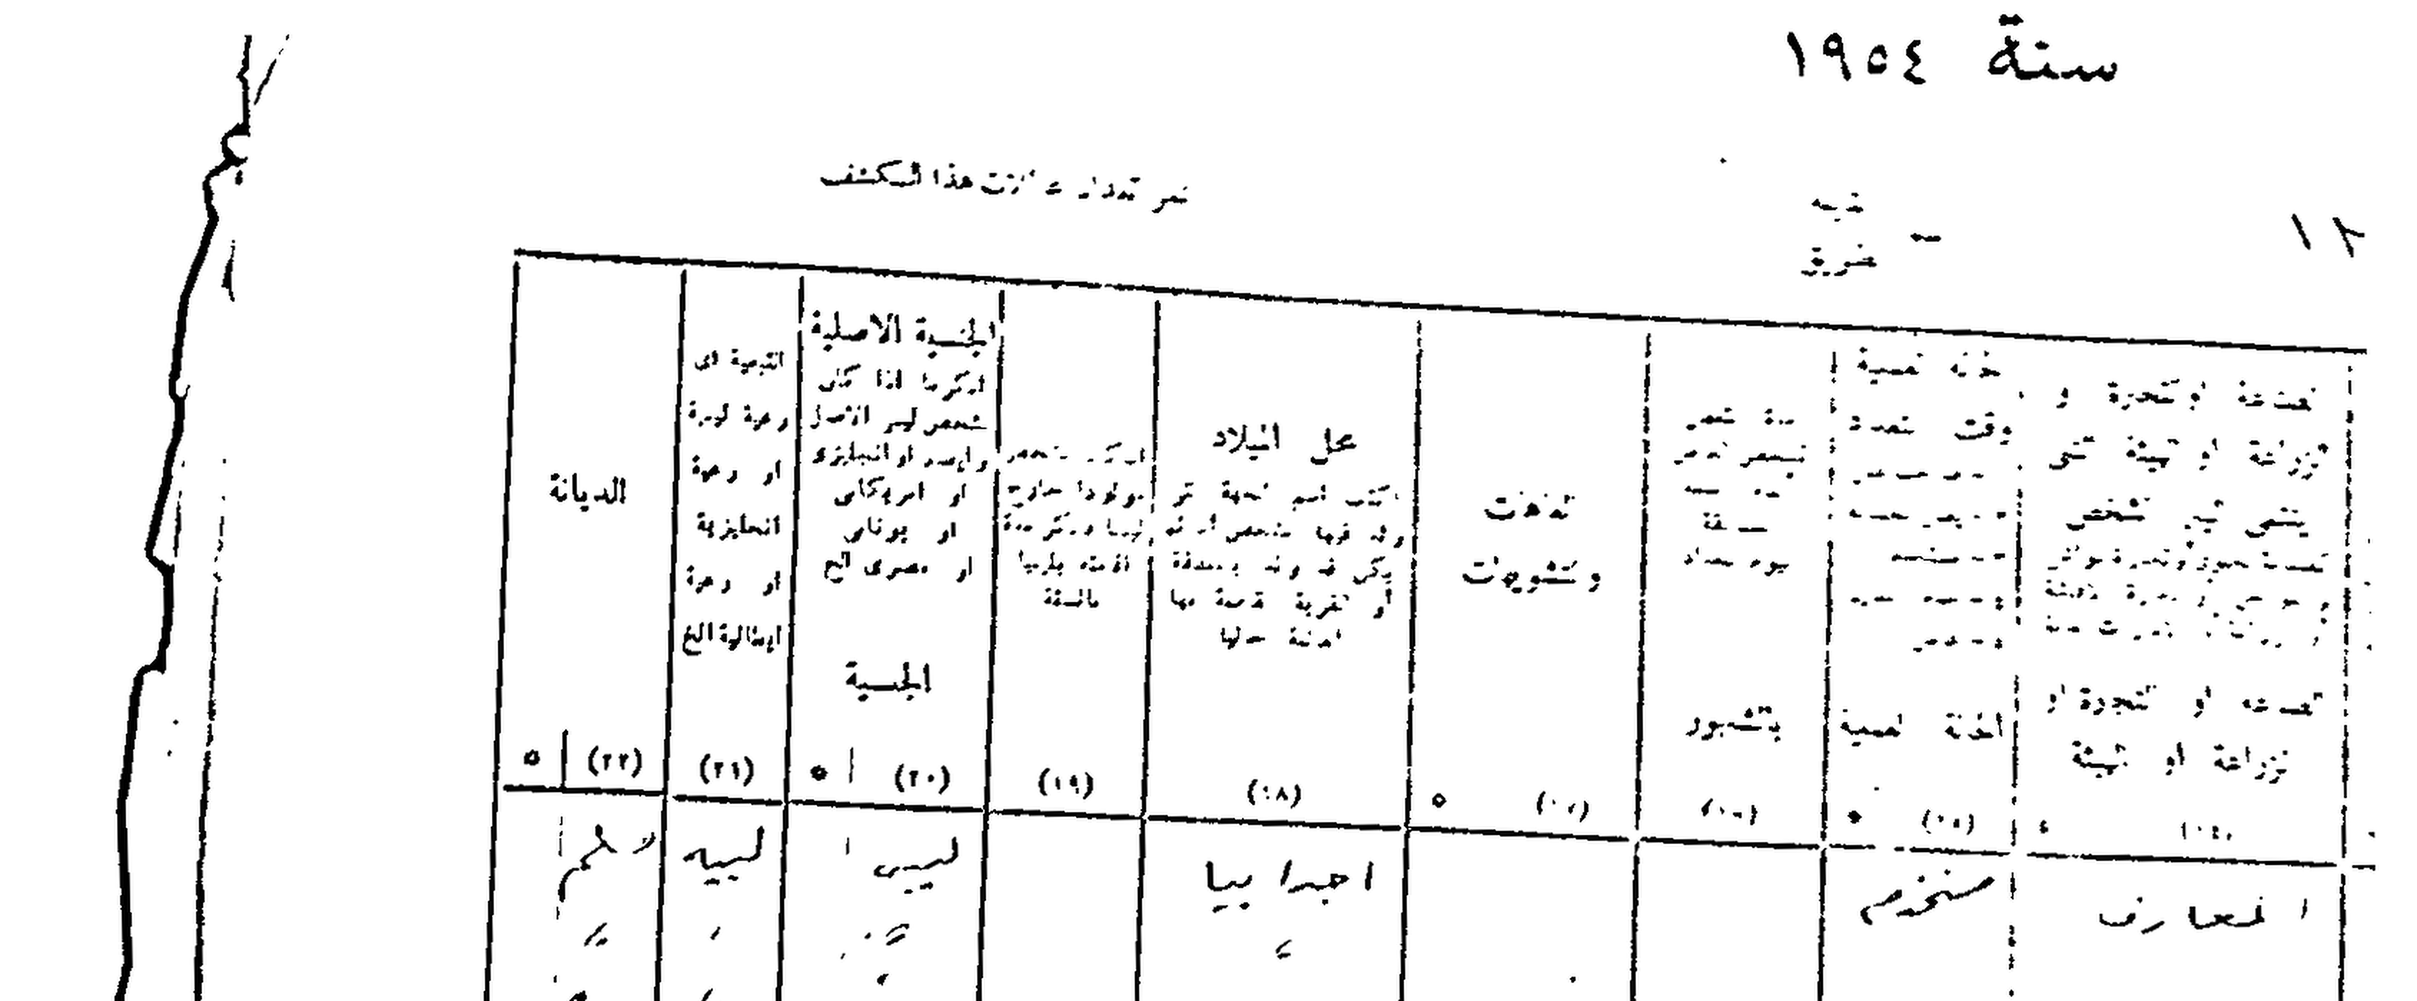
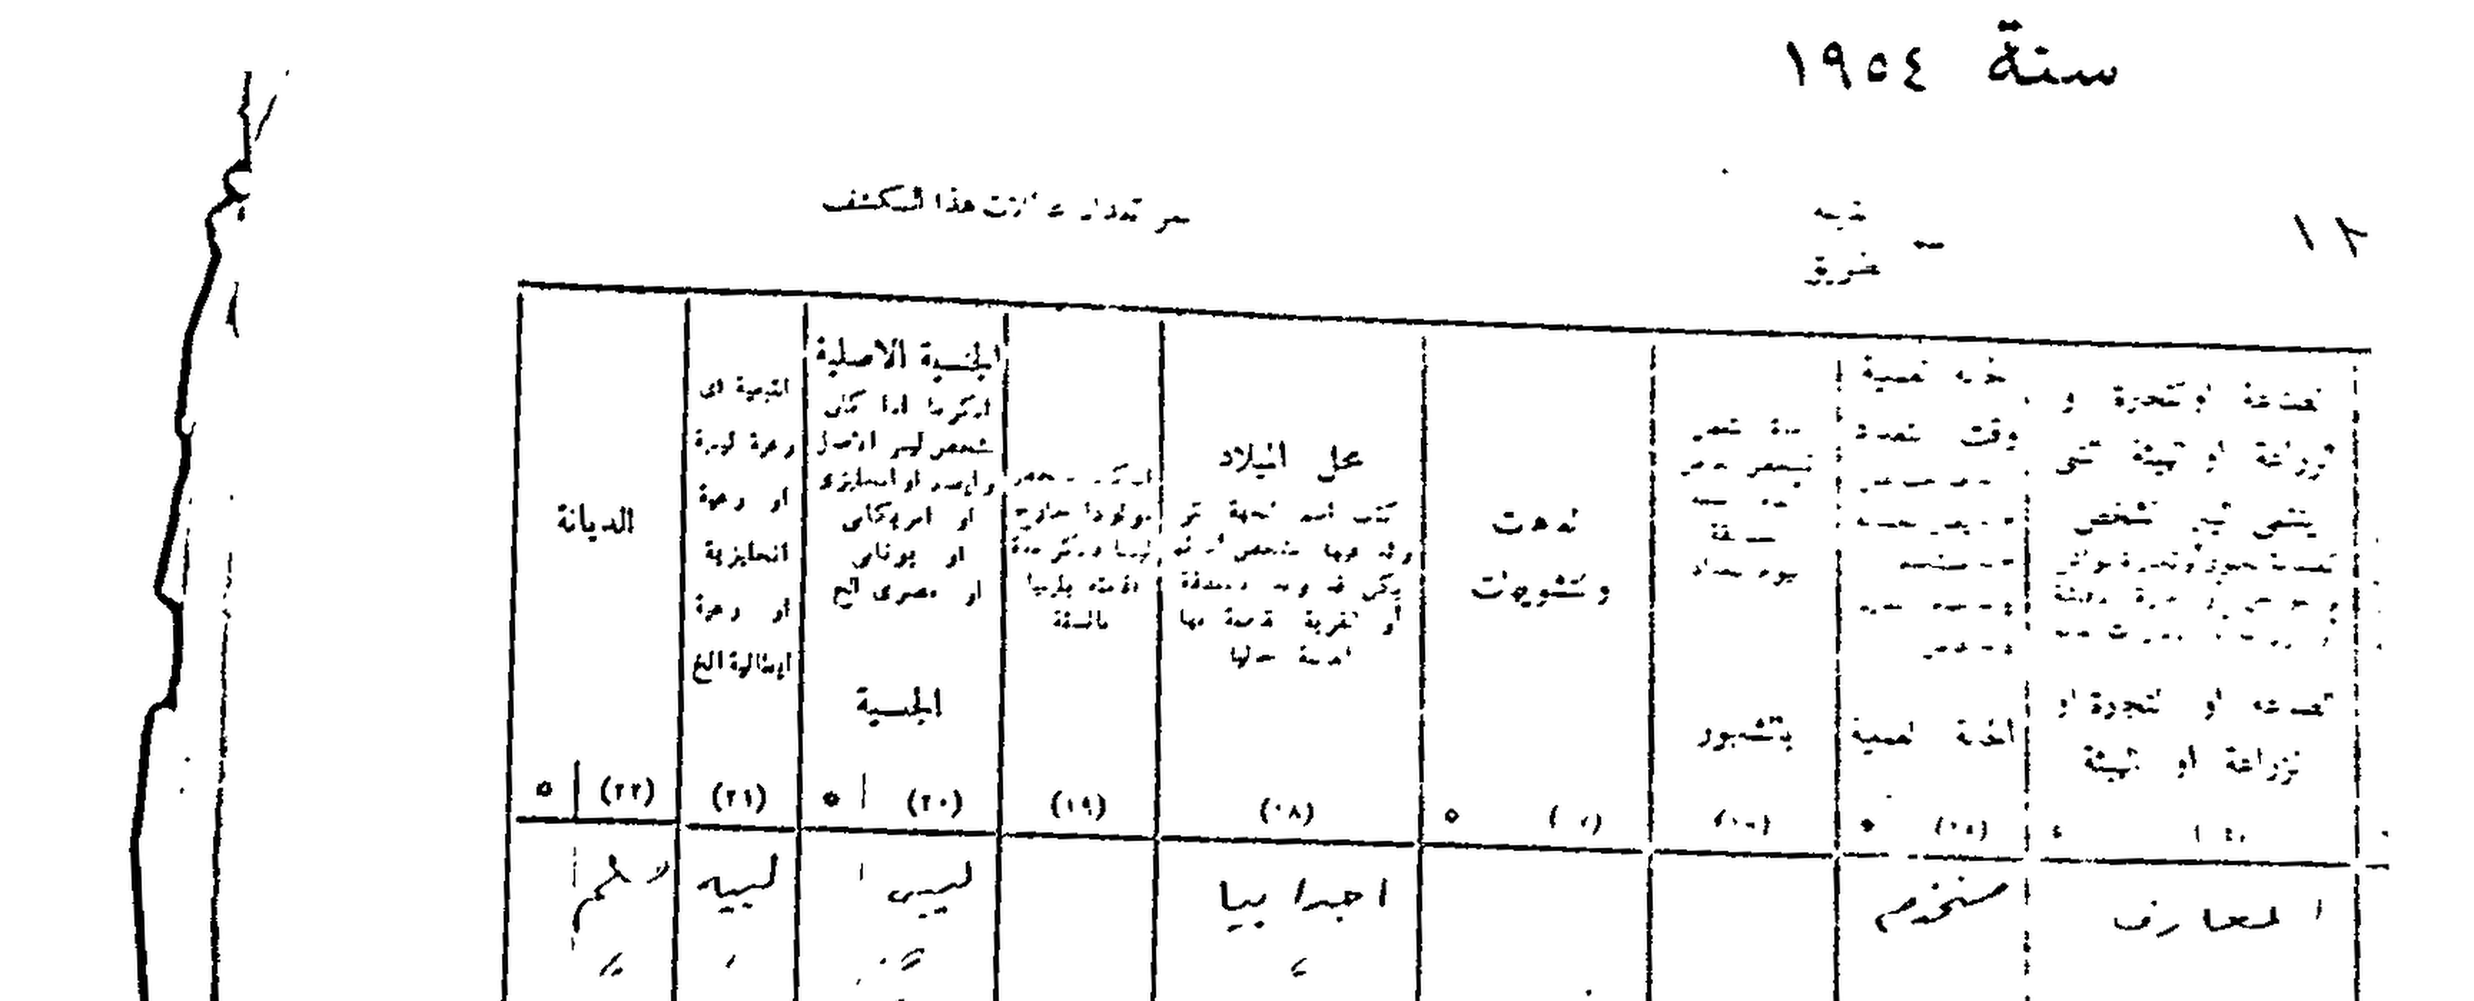
minimize skew

diff --git a/scripts/preprocessing.py b/scripts/preprocessing.py
@@ -29,7 +29,7 @@ def process_image(
     output_dir="data/processed",
     block_size=31,
     c_value=15,
-    min_speckle_size=4,
+    min_speckle_size=6,          # <-- كان 4، زودناها عشان تشيل بقايا تشويش اكتر
     show_steps=False,
 ):
     """
@@ -39,6 +39,12 @@ def process_image(
     3) Remove noise (small scattered dots/speckles) via Connected Components
 
     Returns: path to the final cleaned image (denoised.png)
+
+    ملاحظة (v2): min_speckle_size اتزودت من 4 لـ 6 كافتراضي، لأن الملاحظة
+    العملية على الصور دي إن فيه بقايا نقط تشويش صغيرة بعد denoise بالقيمة
+    القديمة. لو لسه فيه تشويش زيادة عندك، جرب تزودها لـ 8-10، ولو لاحظت
+    إن حروف صغيرة أو نقط فوق الحروف (زي التنقيط العربي) بتتشال بالغلط،
+    رجعها لـ 4-5.
     """
     os.makedirs(output_dir, exist_ok=True)
     base_name = os.path.splitext(os.path.basename(image_path))[0]
@@ -198,6 +204,11 @@ def enhance_clarity(img_array, scale=4.0, sharpen_amount=1.5, blur_sigma=1.3):
     - blur_sigma: درجة التمويه المستخدمة كأساس لعملية unsharp masking
 
     Returns: الصورة بعد التكبير والشحذ (بنفس عدد القنوات - grayscale او ملونة)
+
+    مهم (v2): الدالة دي لازم تفضل آخر خطوة في الـ pipeline (بعد deskew وبعد
+    القص النهائي)، لأن تشغيل deskew على صورة مكبّرة 4x بيبوّظ اداء
+    HoughLinesP (الخطوط بتبقى ضخمة وبعيدة عن قيم الباراميترات المعتادة).
+    الترتيب في crop_folder تحته بيضمن كده تلقائيًا.
     """
     h, w = img_array.shape[:2]
     new_size = (int(w * scale), int(h * scale))
@@ -214,8 +225,18 @@ def enhance_clarity(img_array, scale=4.0, sharpen_amount=1.5, blur_sigma=1.3):
 # ===============  دوال تصحيح الميلان (Deskew)  ===============
 # ============================================================
 
-def detect_skew_angle(img_array, angle_limit=15, canny_low=50, canny_high=150,
-                       hough_threshold=200, min_line_length_ratio=0.25):
+def detect_skew_angle(
+    img_array,
+    angle_limit=15,
+    canny_low=50,
+    canny_high=150,
+    hough_threshold=70,            # <-- كان 200، قللناها عشان يكتشف خطوط جدول متقطعة/اقل كثافة
+    min_line_length_ratio=0.10,    # <-- كان 0.25، قللناها لان النصف بعد split بيبقى اضيق
+    max_line_gap=50,               # <-- كان تابت جوه الكود بقيمة 20، بقى بارامتر قابل للتعديل
+    min_lines_required=5,          # جديد: حد ادنى لعدد الخطوط عشان نثق في النتيجة
+    label="",
+    verbose=True,
+):
     """
     يكتشف زاوية ميلان الصورة اعتماداً على خطوط الجدول (وليس النص).
 
@@ -228,12 +249,27 @@ def detect_skew_angle(img_array, angle_limit=15, canny_low=50, canny_high=150,
 
     Parameters:
     - angle_limit: اقصى زاوية ميلان متوقعة (بالدرجات) - أي خط زاويته اكبر من كده يتجاهل
+    - hough_threshold: عدد الاصوات (votes) المطلوب في Hough space عشان يتحسب الخط
+                       موجود. (v2) اتقللت من 200 لـ 70 لان القيمة القديمة كانت
+                       بترفض كل الخطوط تقريبا في صور فيها تشويش/انقطاعات كتير.
     - min_line_length_ratio: اقل طول للخط (نسبة من عرض الصورة) عشان يتحسب
-                             (خطوط الجدول الافقية عادة طويلة)
+                             (خطوط الجدول الافقية عادة طويلة). (v2) اتقللت من
+                             0.25 لـ 0.10 عشان تناسب الانصاف الاضيق بعد split.
+    - max_line_gap: اقصى فجوة (بالبكسل) بين نقطتين عشان لسه يتحسبوا خط واحد
+                    متصل. (v2) بقت بارامتر بدل ما كانت قيمة تابتة جوه الكود.
+    - min_lines_required: (جديد) لو عدد الخطوط المقبولة اقل من الرقم ده،
+                          الدالة بترفض تاخد قرار وترجع 0.0 مع تحذير، بدل ما
+                          تاخد قرار غير موثوق بناء على خط او اتنين بس.
+    - label: (جديد) اسم اختياري يتطبع في رسائل الـ verbose، مفيد لما تشغل
+             الدالة دي على كذا صورة وعايز تعرف كل نتيجة تخص مين.
+    - verbose: (جديد) لو True، بيطبع تفاصيل تشخيصية (عدد الخطوط, مدى الزوايا..)
+              مفيد جدا للتأكد ان القرار المتخذ موثوق قبل ما تتطبق على الصورة.
 
     Returns: angle (float) بالدرجات. موجب = ميل عكس عقارب الساعة, سالب = مع عقارب الساعة
-             لو مفيش خطوط كافية اتلاقت, بيرجع 0.0
+             لو مفيش خطوط كافية اتلاقت (اقل من min_lines_required), بيرجع 0.0
     """
+    prefix = f"[{label}] " if label else ""
+
     if len(img_array.shape) == 3:
         gray = cv2.cvtColor(img_array, cv2.COLOR_BGR2GRAY)
     else:
@@ -250,11 +286,12 @@ def detect_skew_angle(img_array, angle_limit=15, canny_low=50, canny_high=150,
         theta=np.pi / 180,
         threshold=hough_threshold,
         minLineLength=min_line_length,
-        maxLineGap=20,
+        maxLineGap=max_line_gap,
     )
 
     if lines is None or len(lines) == 0:
-        print("  !! لم يتم العثور على خطوط كافية لتحديد الميلان - سيتم تجاهل التصحيح")
+        if verbose:
+            print(f"  {prefix}!! لم يتم العثور على خطوط كافية لتحديد الميلان - سيتم تجاهل التصحيح")
         return 0.0
 
     angles = []
@@ -276,25 +313,43 @@ def detect_skew_angle(img_array, angle_limit=15, canny_low=50, canny_high=150,
             weights.append(length)
 
     if not angles:
-        print("  !! لم يتم العثور على خطوط افقية واضحة - سيتم تجاهل التصحيح")
+        if verbose:
+            print(f"  {prefix}!! لم يتم العثور على خطوط افقية واضحة - سيتم تجاهل التصحيح")
+        return 0.0
+
+    # (v2) لو عدد الخطوط المقبولة اقل من الحد الادنى، منثقش في القرار
+    if len(angles) < min_lines_required:
+        if verbose:
+            print(
+                f"  {prefix}!! عدد الخطوط الموثوقة ({len(angles)}) اقل من الحد الادنى "
+                f"({min_lines_required}) - سيتم تجاهل التصحيح لتفادي قرار غير دقيق"
+            )
         return 0.0
 
     # نستخدم "weighted median" بدل median العادي:
     # الخطوط الطويلة (زي حدود الجدول الحقيقية) توزنها اكبر من الخطوط القصيرة
     # (زي خطوط طيات/تمزقات حواف الورقة اللي ممكن تكون بزاوية مختلفة تماما
     # وتخدع median العادي رغم انها قصيرة وغير موثوقة)
-    angles = np.array(angles)
-    weights = np.array(weights)
+    angles_arr = np.array(angles)
+    weights_arr = np.array(weights)
 
-    order = np.argsort(angles)
-    angles_sorted = angles[order]
-    weights_sorted = weights[order]
+    order = np.argsort(angles_arr)
+    angles_sorted = angles_arr[order]
+    weights_sorted = weights_arr[order]
     cum_weights = np.cumsum(weights_sorted)
     cutoff = weights_sorted.sum() / 2.0
     idx = np.searchsorted(cum_weights, cutoff)
     idx = min(idx, len(angles_sorted) - 1)
 
     weighted_median_angle = float(angles_sorted[idx])
+
+    if verbose:
+        print(
+            f"  {prefix}عدد الخطوط الموثوقة: {len(angles)} | "
+            f"مدى الزوايا: [{angles_arr.min():.2f}, {angles_arr.max():.2f}] | "
+            f"الزاوية المختارة (weighted median): {weighted_median_angle:.3f}°"
+        )
+
     return weighted_median_angle
 
 
@@ -332,19 +387,38 @@ def rotate_image(img_array, angle, border_value=255):
     return rotated
 
 
-def deskew_image(img_array, angle_limit=15, min_angle_to_apply=0.1, show_angle=True):
+def deskew_image(
+    img_array,
+    angle_limit=15,
+    min_angle_to_apply=0.1,
+    hough_threshold=70,
+    min_line_length_ratio=0.10,
+    max_line_gap=50,
+    min_lines_required=5,
+    label="",
+    show_angle=True,
+):
     """
     الدالة الرئيسية للتصحيح: تكتشف زاوية الميلان وتصححها.
 
     - min_angle_to_apply: لو الزاوية المكتشفة اصغر من كده، متعملش دوران خالص
                           (عشان منضيعش جودة الصورة بدوران غير ضروري لزاوية شبه معدومة)
+    - باقي الباراميترات (hough_threshold, min_line_length_ratio, max_line_gap,
+      min_lines_required, label) بتتمرر مباشرة لـ detect_skew_angle، شوف
+      توثيقها هناك.
 
     Returns: img_array بعد التصحيح (او نفس الصورة لو الزاوية صغيرة جدا او متلاقتش)
     """
-    angle = detect_skew_angle(img_array, angle_limit=angle_limit)
-
-    if show_angle:
-        print(f"  زاوية الميلان المكتشفة: {angle:.2f} درجة")
+    angle = detect_skew_angle(
+        img_array,
+        angle_limit=angle_limit,
+        hough_threshold=hough_threshold,
+        min_line_length_ratio=min_line_length_ratio,
+        max_line_gap=max_line_gap,
+        min_lines_required=min_lines_required,
+        label=label,
+        verbose=show_angle,
+    )
 
     if abs(angle) < min_angle_to_apply:
         return img_array
@@ -393,6 +467,7 @@ def crop_folder(
     custom_crops=None,
     default_crops=None,
     apply_deskew=True,
+    deskew_params=None,
     top_margin_crops=None,
     apply_enhance=False,
     enhance_scale=2.0,
@@ -411,6 +486,10 @@ def crop_folder(
        - يصحح ميلان الصورة كاملة [لو apply_deskew=True]
        - يقص الصورة الكاملة مباشرة لـ header_part / table_part
 
+    الترتيب مهم وبيفضل زي ما هو (v2): split -> crop_top_margin -> deskew ->
+    crop_header_table -> enhance (اخر حاجة). تشغيل enhance قبل deskew كان
+    بيبوظ اداء اكتشاف الميلان (Hough) لان الصورة بتبقى مكبرة اربع اضعاف.
+
     Parameters:
     - needs_split: dict {اسم_الصورة_بدون_الامتداد: True/False}
                     يحدد هل الصورة محتاجة قص يمين/يسار قبل قص header/table
@@ -420,6 +499,12 @@ def crop_folder(
                      احداثيات مخصصة لقص header/table لصورة (او نصف صورة) معينة
     - default_crops: crops_template افتراضي لأي صورة/نصف مش موجود في custom_crops
     - apply_deskew: لو True، يصحح ميلان كل جزء (بعد split, قبل crop_header_table)
+    - deskew_params: (جديد) dict بباراميترات deskew_image الافتراضية لكل
+                      الصور، مثال:
+                      {"hough_threshold": 70, "min_line_length_ratio": 0.10,
+                       "max_line_gap": 50, "min_lines_required": 5}
+                      لو عايز قيم مختلفة لصورة معينة، استخدم
+                      per_image_deskew_params بدلها.
     - top_margin_crops: dict {اسم_الجزء: cutoff_y}
                         بيشيل شريط من اعلى الجزء المحدد (بعد split, قبل deskew)
                         لازالة اثر طيات/تمزقات حواف الورقة الظاهرة فوق الجدول.
@@ -442,6 +527,13 @@ def crop_folder(
         custom_crops = {}
     if top_margin_crops is None:
         top_margin_crops = {}
+    if deskew_params is None:
+        deskew_params = {
+            "hough_threshold": 70,
+            "min_line_length_ratio": 0.10,
+            "max_line_gap": 50,
+            "min_lines_required": 5,
+        }
     if default_crops is None:
         default_crops = {
             "header_part": (0, 750, 0, None),
@@ -483,9 +575,9 @@ def crop_folder(
 
             if apply_deskew:
                 print("  -> تصحيح ميلان النصف الايسر:")
-                left_half = deskew_image(left_half)
+                left_half = deskew_image(left_half, label=left_name, **deskew_params)
                 print("  -> تصحيح ميلان النصف الايمن:")
-                right_half = deskew_image(right_half)
+                right_half = deskew_image(right_half, label=right_name, **deskew_params)
 
             parts_to_process = {
                 left_name: left_half,
@@ -500,7 +592,7 @@ def crop_folder(
 
             if apply_deskew:
                 print("  -> تصحيح ميلان الصورة:")
-                img_array = deskew_image(img_array)
+                img_array = deskew_image(img_array, label=base_name, **deskew_params)
 
             parts_to_process = {
                 base_name: img_array,
@@ -526,7 +618,11 @@ if __name__ == "__main__":
     # ============================================
     # 1. تنظيف الصور (denoising) لكل الصور في data/raw
     # ============================================
-    results = process_folder("data/raw", pattern="*.jpg")
+    results = process_folder(
+        "data/raw",
+        pattern="*.jpg",
+        min_speckle_size=6,   # (v2) كانت 4 - جرب 8-10 لو لسه فيه تشويش
+    )
     print("Final images:", results)
 
     # ============================================
@@ -579,6 +675,17 @@ if __name__ == "__main__":
         # "1954-P000001_page-0001_denoised_right": 0,  # مثال: لو مفيش طية في اليمين
     }
 
+    # (v2 - جديد) باراميترات اكتشاف الميلان. القيم دي اتظبطت بناء على تشخيص
+    # فعلي اظهر ان القيم القديمة (threshold=200, ratio=0.25) كانت بترفض
+    # كل الخطوط تقريبا. لو لسه الميلان مش بيتصحح صح، قلل hough_threshold
+    # اكتر (مثلا 40-50) او زود max_line_gap.
+    deskew_params = {
+        "hough_threshold": 70,
+        "min_line_length_ratio": 0.10,
+        "max_line_gap": 50,
+        "min_lines_required": 5,
+    }
+
     crop_folder(
         input_dir="data/processed",
         output_dir="data/cropped",
@@ -588,6 +695,7 @@ if __name__ == "__main__":
         custom_crops=custom_crops,
         default_crops=default_crops,
         apply_deskew=True,   # غيّرها لـ False لو عايز ترجع للسلوك القديم بدون تصحيح ميلان
+        deskew_params=deskew_params,
         top_margin_crops=top_margin_crops,
         apply_enhance=True,   # يوضح الكلام (تكبير + شحذ) - غيّرها لـ False لو مش محتاجها
         enhance_scale=4.0,    # جرب 3.0 لو حجم الملفات كبير اوي وعايز توازن افضل
